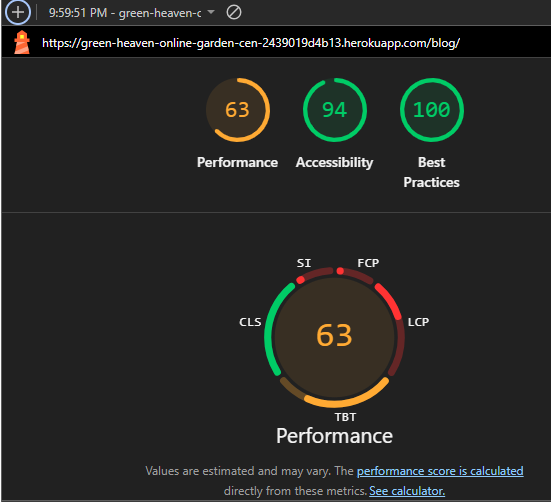
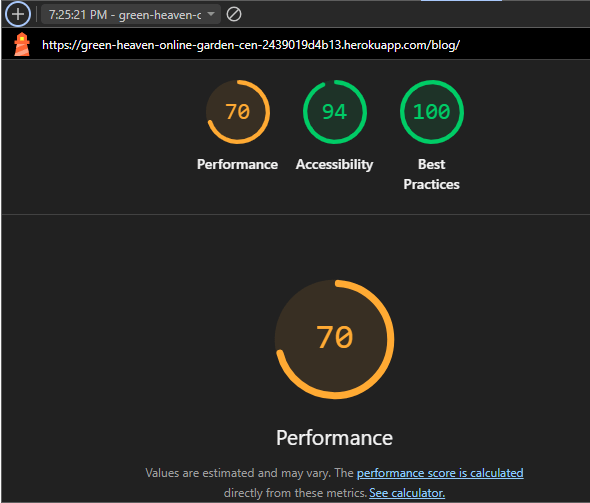
Testing.md updated

diff --git a/products/templates/products/products.html b/products/templates/products/products.html
@@ -58,13 +58,13 @@
                                 {% if product.image %}
                                     <div class="ratio ratio-4x3">
                                         <a href="{% url 'product_detail' product.id %}">
-                                            <img class="card-img-top img-fluid object-fit-cover w-100 h-100" src="{{ product.image.url }}" alt="{{ product.name }}">
+                                            <img loading="lazy" class="card-img-top img-fluid object-fit-cover w-100 h-100" src="{{ product.image.url }}" alt="{{ product.name }}">
                                         </a>
                                     </div>
                                 {% else %}
                                     <div class="ratio ratio-4x3">
                                         <a href="{% url 'product_detail' product.id %}">
-                                            <img class="card-img-top img-fluid w-100 h-100 object-fit-cover" src="{% static 'media/no_image.png' %}" alt="{{ product.name }}">
+                                            <img loading="lazy" class="card-img-top img-fluid w-100 h-100 object-fit-cover" src="{% static 'media/no_image.png' %}" alt="{{ product.name }}">
                                         </a>
                                     </div>
                                 {% endif %}

diff --git a/checkout/templates/checkout/checkout_success.html b/checkout/templates/checkout/checkout_success.html
@@ -67,7 +67,7 @@
                             </p>
                         </div>
                         <div class="col-12 col-md-8 text-md-right">
-                            <p class="small mb-0">{{ item.quantity }} @ ${{ item.product.price }} each</p>
+                            <p class="small mb-0">{{ item.quantity }} @ £{{ item.product.price }} each</p>
                         </div>
                     </div>
                     {% endfor %}

diff --git a/TESTING.md b/TESTING.md
@@ -70,19 +70,21 @@ All JavaScript scripts were validated using JSHint. Each script passed without i
 ### 1.5 Lighthouse Reports
 
 Lighthouse audits were run in Chrome Incognito mode to avoid extension interference. Results for key pages:
+| Page                        | Screenshot                                               | Notes                |
+|-----------------------------|----------------------------------------------------------|----------------------|
+| Home page                   | ![Home](media/testing/lighthouse.PNG)                    | Performance needs work, but the rest is excellent.    |
+| Product list                | ![Product list](/media/testing/lighthouse-product-list.PNG) | Performance isn't good, mainly because of the pictures, but the rest is good.     |
+| Product page                | ![Product page](media/testing/lighthouse_product.PNG)     | Performance needs work, but the rest is excellent.      |
+| Checkout                    | ![Checkout](media/testing/lighthouse-checkout.PNG)        | Performance needs work, but the rest is excellent.   |
+| Blog list                   | ![Blog list](media/testing/lighthouse_blog_list.PNG)      | Performance needs work, but the rest is excellent.        |
+| Blog article                | ![Blog article](media/testing/lighthouse_blog_article.PNG)| Performance needs work, but the rest is excellent.      |
+| User profile                | ![Profile](media/testing/lighthouse_profile.PNG)          | Performance needs work, but the rest is excellent.           |
+| Shopping bag                | ![Shopping bag](media/testing/lighthouse_shopping_bag.PNG)| Performance needs work, but the rest is excellent.        |
+| Sign up/in                  | ![Sign in](media/testing/lighthouse_sign_in.PNG)          | Performance needs work, but the rest is excellent.          |
+| Order confirmation          | ![Order confirmation](media/testing/lighthouse-order-conf.PNG) | Performance needs work, but the rest is excellent.  |
+| Admin product management    | ![Product management](media/testing/lighthouse_product_man.PNG) | Admin only      |
+| Admin blog management       | ![Blog management](media/testing/lighthouse_blog_man.PNG) | Admin only           |
 
-- **Home page:** ![Home](media/testing/lighthouse.PNG)
-- **Product list:** ![Product list](/media/testing/lighthouse-product-list.PNG)
-- **Product page:** ![Product page](media/testing/lighthouse_product.PNG)
-- **Checkout:** ![Checkout](media/testing/lighthouse-checkout.PNG)
-- **Blog list:** ![Blog list](media/testing/lighthouse_blog_list.PNG)
-- **Blog article:** ![Blog article](media/testing/lighthouse_blog_article.PNG)
-- **User profile:** ![Profile](media/testing/lighthouse_profile.PNG)
-- **Shopping bag:** ![Shopping bag](media/testing/lighthouse_shopping_bag.PNG)
-- **Sign up/in:** ![Sign in](media/testing/lighthouse_sign_in.PNG)
-- **Order confirmation:** ![Order confirmation](media/testing/lighthouse-order-conf.PNG)
-- **Admin product management:** ![Product management](media/testing/lighthouse_product_man.PNG)
-- **Admin blog management:** ![Blog management](media/testing/lighthouse_blog_man.PNG)
 
 ## 2. Manual Testing
 

diff --git a/README.md b/README.md
@@ -58,6 +58,7 @@ The aim of this project is to develop an online garden center for an imaginary c
 - I want to add, edit, or remove products so the catalog stays up to date.
 - I want to manage blog posts and moderate user comments to ensure quality content.
 - I want to assist users with account or order issues to provide good customer support.
+- I want to add ratings to products.
 
 # 4. Typography and color scheme
 ## Typography
@@ -212,6 +213,9 @@ It could be possible to upgrade the customer experince with these other features
 
 3. **Live Chat Support**  
    Add a live chat feature for real-time customer assistance, helping users with product questions and order issues.
+
+4. **Rating buy customers**
+   Customers can be able to rate products, or write feedback about them.
 
 
 # 9. Testing
